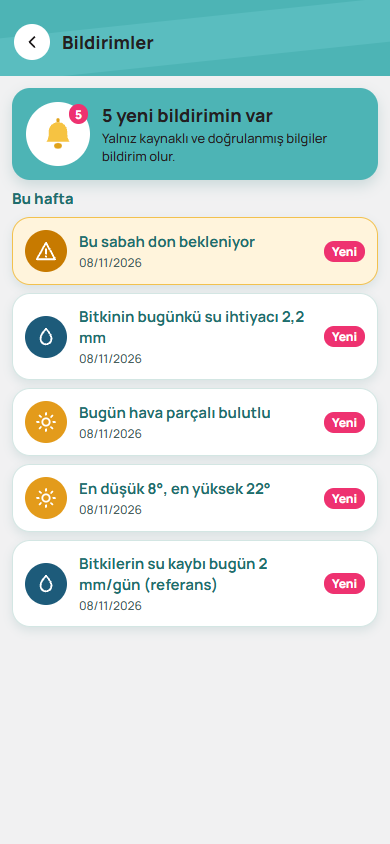
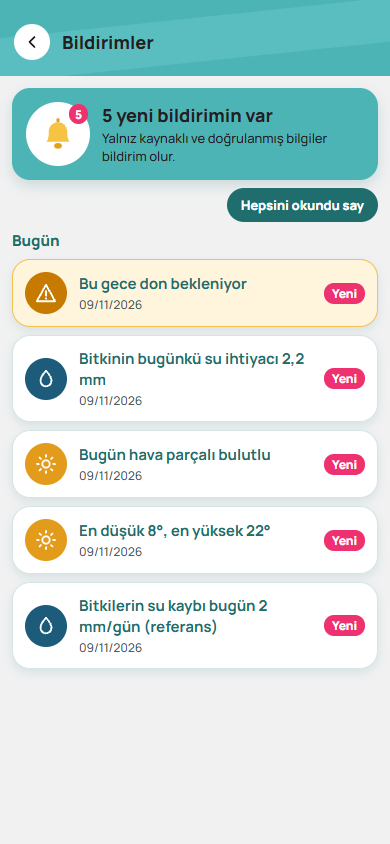
Tarama: baslik kurali daraltildi (kuruldu, is gunu red degil; ciftci egitim toplantisi kabul); G32 kararlari

Changed region(s): [[0.0308, 0.2156, 0.9846, 0.7701]]

diff --git a/apps/api/src/tarama/analiz.ts b/apps/api/src/tarama/analiz.ts
@@ -139,12 +139,17 @@ export function kisalt(s: string, max: number): string {
  * arıcılık desteği, besilik sığır başvurusu) ve geçirdiği ilgisizler (ziyaret) bu listeyle düzeltildi.
  */
 const RED =
-  /\b(ziyaret|toplanti|staj|personel|ihale|kiralama|kantin|gida (isletme|guvenlig|denetim|kaybi)|hijyen|numune|denetim|spor|sampiyon|finalinde|masa tenisi|festival|senlik|fuar|odul|kutla|gunu\b|konsey|kurul|imha|sivil savunma|yangin|is sagligi|bakanimiz|valimiz|genel mudur|mudurumuz|baskanliginda|derecelendir|intibak|belgesi almaya|av sezonu|su urunleri denetim)/;
+  /\b(ziyaret|toplanti|staj|personel|ihale|kiralama|kantin|gida (isletme|guvenlig|denetim|kaybi)|hijyen|numune|denetim|spor|sampiyon|finalinde|masa tenisi|festival|senlik|fuar|odul|kutla|(dunya|kadin ciftciler|gida|farkindalik) [a-z ]*gunu|konsey|kurulu\b|kurul\b|imha|sivil savunma|yangin|is sagligi|bakanimiz|valimiz|genel mudur|mudurumuz|baskanliginda|derecelendir|intibak|belgesi almaya|av sezonu|su urunleri denetim)/;
 const KABUL =
   /\b(destek|hibe|basvuru|muracaat|dagit|mucadele|zararli|hastalik|uyari|zirai don|dolu|kurakl|sulama|tohum|fidan|gubre|toprak analiz|asilama|ilaclama|egitim|ciftci okulu|tarsim|kayit|cks|rekolte|hasat|ekim\b|dikim|budama)/;
 
+const CIFTCI_EGITIM =
+  /\b(ciftci|uretici|yetistirici|arici|hayvancilara?)[a-z]*\b.*\b(egitim|bilgilendirme|kurs|seminer)/;
+
 export function baslikKarari(baslik: string): 'kabul' | 'red' | null {
   const n = normalizeTr(baslik);
+  // Çiftçiye/üreticiye yönelik eğitim ve bilgilendirme toplantısı ilgilidir ("toplantı" reddinden önce).
+  if (CIFTCI_EGITIM.test(n) && !/\b(ziyaret|ihale|personel|odul)/.test(n)) return 'kabul';
   if (RED.test(n)) return 'red';
   if (KABUL.test(n)) return 'kabul';
   return null;

diff --git a/apps/api/src/tarama/tarama.test.ts b/apps/api/src/tarama/tarama.test.ts
@@ -319,3 +319,22 @@ describe('metni <p> içinde olmayan sayfa', () => {
     expect(m.text).toContain('Turunçgil bahçelerinde');
   });
 });
+
+describe('başlık kuralı: "kuruldu" ve "iş günü" yanlış red olmaz', () => {
+  it('kurulum ve süre ifadeleri red sayılmaz', async () => {
+    const { baslikKarari } = await import('./analiz');
+    expect(
+      baslikKarari("Adıyaman'da badem bahçesine yüzey altı damla sulama sistemi kuruldu"),
+    ).toBe('kabul');
+    expect(
+      baslikKarari(
+        'Uydu destekli ürün tespit raporları askıda; itiraz için 5 iş günü süre içinde başvuru',
+      ),
+    ).toBe('kabul');
+    expect(baslikKarari('İl Hayvanları Koruma Kurulu Toplantısı Gerçekleştirildi')).toBe('red');
+    expect(baslikKarari('15 Ekim Dünya Kadın Çiftçiler Günü')).toBe('red');
+    expect(baslikKarari('Çiftçilere Yönelik Bilgilendirme Toplantısı Düzenlendi')).toBe('kabul');
+    expect(baslikKarari('Koordinasyon ve Değerlendirme Toplantısı Gerçekleştirildi')).toBe('red');
+    expect(baslikKarari('Bakan Çiftçi Eğitim Merkezini Ziyaret Etti')).toBe('red');
+  });
+});

diff --git a/docs/KARARLAR.md b/docs/KARARLAR.md
@@ -388,3 +388,13 @@
 - **MP-5 Robot:** (a) "arazi ekle" niyeti bulanık eşleşir (1 harf hata, bölünmüş "ekle mek", eş anlamlılar); (b) yapay zekâ uyarısı sohbette tekrarlanmaz (altta sabit yazı kalır); (c) ses gecikmesi: ilk cümle cihaz sesiyle hemen, kalan Nuvia sesiyle (arka planda hazırlanır, 5 sn'de gelmezse cihaz sesi); (d) kayıt başlarken robot sesi susturulur ve 450 ms beklenir.
 - **MP-6 Güncelleme:** APK uygulama içinde indirilir ve Android kurucusu doğrudan açılır (`src/updates/apkKur.ts`, `REQUEST_INSTALL_PACKAGES`, expo-intent-launcher). Android "bu kaynaktan kuruluma izin ver" ekranını yalnız ilk güncellemede gösterir ve "Güncelle" onayını her zaman ister; bunlar sistem kuralıdır, uygulama atlayamaz (sessiz kurulum yalnız cihaz sahibi/kök yetkisiyle olur). Hata olursa eski yol (tarayıcı).
 - **Çapraz test bulguları (2026-11-08, ayna-a0):** CB-2/CB-3 düzeltildi: canlı giriş noktası `demo-server.ts` güvenlik başlıklarını (nosniff, HSTS, x-powered-by kapalı) ve bozuk JSON için Türkçe ileti filtresini (`govde-hatasi.ts`) kullanıyor. CB-6: `SYSTEM_ALERT_WINDOW` engellendi (sonraki APK); takvim izni ÇALIŞMA TAKVİMİNİ telefona aktarmak için gerekli ve gerekçeli. CB-1 (yerleşim verisinde ASCII ilçe adı, ör. Beypazari): veri düzeltmesi resmî ilçe listesiyle yapılmalı, açık. CB-4: Render uykusu UptimeRobot (5 dk) ile giderildi. CB-5 CORS*: kimlik Bearer olduğundan kabul.
+
+## G32 — Son sürüm turu: kendi kendine çalışan sistem (2026-11-09)
+- **Meteorolojik don bildirim üretir (SMS + push):** 2 m hava sıcaklığının ≤ 0 °C olması (WMO tanımı) bitki eşiği değil, kaynaklı (Open-Meteo, saatlik) bir hava olgusudur; kural 1'in "onaysız bilgi" sınırına girmez. Bildirim yalnız olguyu söyler ("Bu gece X arazinizde 03:00-07:00 arası en düşük -2°"), öneri vermez. Ürüne özel zarar eşiği yine uzman onayı ister. Gece penceresi yerel 18:00-09:00; tarama saatlik (`FROST_SCAN_INTERVAL_MIN=60`), gönderim yerel 14:00-22:00, aynı arazi/gece için tek push, kullanıcı başına gecede tek SMS (`DON_SMS=1`, `DON_SMS_LIMIT` varsayılan 40; SMS hattı Nuvia ile ortak).
+- **Don türü:** FAO 2005 (Snyder ve de Melo-Abreu, *Frost Protection*): ortalama rüzgâr < 2 m/s ve bulut ≤ %30 → radyasyon donu; rüzgâr > 2 m/s → adveksiyon donu. Rüzgâr makinesi önerisi yalnız radyasyon gecesinde (ters sıcaklık katmanı olmadan işe yaramaz). Kuvvetli rüzgâr: hamle ≥ 13,9 m/s (Beaufort 7); kar ≥ 0,5 cm/gün; kuvvetli yağış ≥ 25 mm/gün.
+- **"Neler yapabilirim?" rehberi:** ağaç ve tarla/sebze grupları ayrı; kaynak FAO 2005, Atık Lastiklerin Kontrolü Yönetmeliği ve 2872 sayılı Çevre Kanunu (lastik/plastik yakmak yasak ve zararlıdır, "yapmayın" altında), TARSİM. Doz yok. Rozet: "Bilgi notu · uzman onayı bekliyor".
+- **Test verisi silindi (yedek `.yedek/`, git dışı):** 32 örnek duyuru, 6 örnek soru, 35 takvim şablonu, örnek pazar fiyatları, örnek cihaz. Canlıda `ORNEK_TOHUM=0`. Kalan haberler yalnız resmî sitelerden taranan otomatik haberlerdir. **Sonuç (kural 1):** onaylı ürün don eşiği ve takvim şablonu şu an yok; ürüne özel uyarı ve takvim işleri uzman panelden onaylayınca açılır. Meteorolojik don, hava tehlikeleri ve çiftçinin kendi notları bundan bağımsız çalışır. FAO-56 Kc paketleri (antep fıstığı, zeytin) literatür kaynaklı olduğundan bırakıldı; onayları demo kodundan gelmişti, uzman yeniden onaylamalı.
+- **Haber bulma oranı (243 → 93 incelemesi):** ilk taramada kaynak başına yalnız en yeni 3 haber analiz edilip kalanı "görüldü" sayılmıştı. Canlı deneme: 231 haberden 121 kabul, 87 ilgisiz (çoğu doğru: ziyaret, toplantı, staj, gıda denetimi, spor, fuar), 15 süresi geçmiş/eski, 8 hata. Yanlış redler için yapay zekâdan önce **başlık kuralı** eklendi (red listesi önce; "kuruldu", "iş günü" red sayılmaz; çiftçiye yönelik eğitim/bilgilendirme toplantısı kabul). `<p>` kullanmayan siteler için uzun metin düğümü ayıklama eklendi. Her sonuç `scan_log` tablosuna yazılır (panelden izlenebilir).
+- **Haberin bitişi:** metindeki başvuru aralığı / "… tarihine kadar" / "son başvuru" tarihinden (başvuru sözcüğüne yakın tarih önce; askı/sonuç tarihi değil) o günün sonunda (TSİ) yayından kalkar; tarih yoksa yayından 45 gün sonra. Ör. Bir Sürü Olsun (04-13.11.2026) 13 Kasım 24:00'te kalkar.
+- **İlçe hedefleme:** başlıkta (yoksa metnin ilk 1200 karakterinde) ilin ilçelerinden 1-3 tanesi tam sözcük olarak geçiyorsa haber o ilçelere hedeflenir (Merkez ve il adıyla aynı ilçe sayılmaz). İlçe yetkilisi onay kuyruğunda yalnız kendi kapsamını görür, düzenler, yayınlar.
+- **Zeytin hasat tarihi tahmini yapılmadı:** derece-gün altyapısı hazır (`agro-core/phenology.ts`) ve çiçeklenme/çekirdek sertleşmesi için çeşide göre kaynaklı eşikler var (Didevarasl ve ark. 2023, *Plants* 12:3181: Tb 4,5-7 °C, çekirdek sertleşmesi 1003-1315 GDD). Ancak çekirdek sertleşmesinden hasat olgunluğuna (Jaén olgunluk indeksi 3-4) Türkiye çeşitleri (Gemlik, Ayvalık, Memecik, Nizip yağlık) için doğrulanmış eşik bulunamadı. Atıfsız tarih üretmemek için (kural 2, jüri ölçütü) özellik, uzman onaylı çeşit eşiği girilince açılacak şekilde bekletildi.
